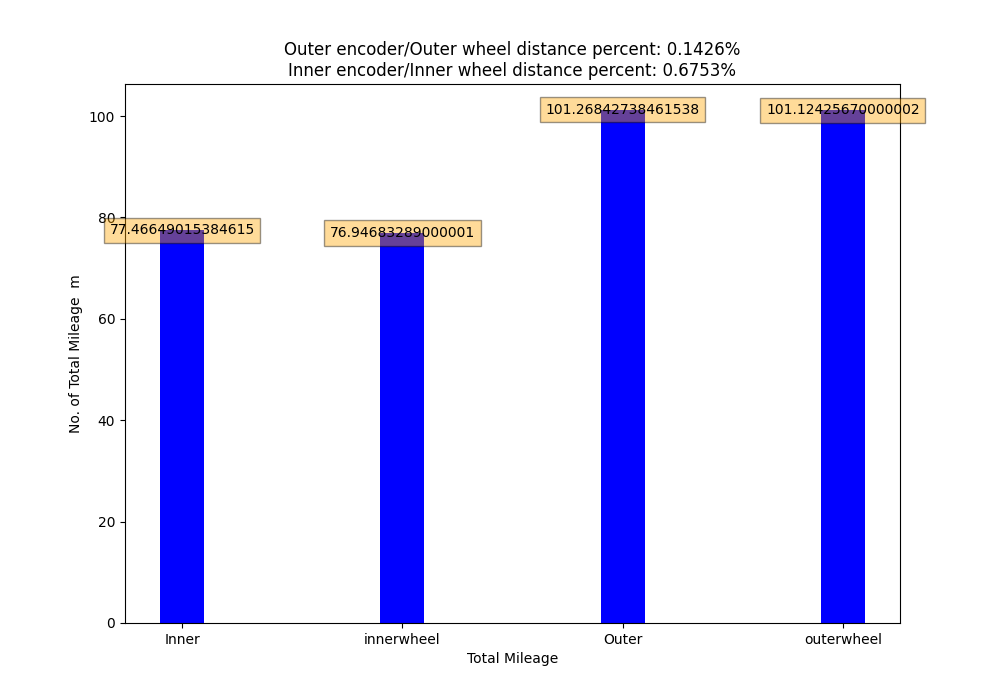
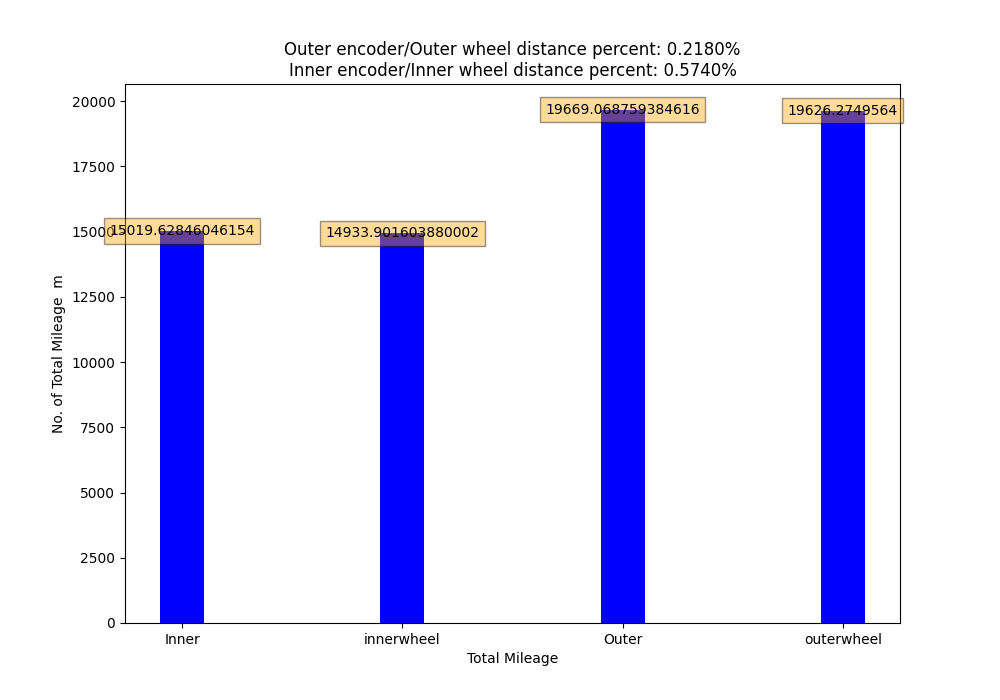
Add files via upload

diff --git a/mainwindow.cpp b/mainwindow.cpp
@@ -41,7 +41,7 @@ MainWindow::MainWindow(QWidget *parent)
     connect(ui->configButton, &QPushButton::clicked, m_settings, &SettingsDialog::show);
     connect(ui->connectButton, &QPushButton::clicked, this, &MainWindow::openSerialPort);
     connect(ui->disconnectButton, &QPushButton::clicked, this, &MainWindow::closeSerialPort);
-    connect(this,SIGNAL(filePath(QString)),this,SLOT(process_python(QString)));
+    connect(this,SIGNAL(filePath(QString,QString)),this,SLOT(process_python(QString,QString)));
     // connect(this,SIGNAL(picpath(QString)),this,SLOT(process_python(QString))); not work
     connect(ui->pushButton,&QPushButton::clicked,m_show,&showDialog::show);
 
@@ -64,11 +64,13 @@ void MainWindow::on_pushButton_2_clicked()
 {
     QString filename=QFileDialog::getOpenFileName(this,"Load CSV file",QDir::homePath(),"CSV file (*.csv)");
     //qDebug()<<filename;
-    emit filePath(filename);
+   QString duration= ui->lineEdit->text(); //get the time duration to process user set.
+    //qDebug()<<duration;
+    emit filePath(filename,duration);
     connect(this,SIGNAL(picpath(QString)),m_show,SLOT(showButton_clicked(QString)));  //transfer the picture path
 }
 
-void MainWindow::process_python(QString p)
+void MainWindow::process_python(QString p,QString time)
 {
     // Setup a process to run the Python script   https://stackoverflow.com/questions/47276571/qprocess-passing-arguments-to-a-python-script
     process1=new QProcess(this);
@@ -77,7 +79,7 @@ void MainWindow::process_python(QString p)
 //    process1->write("/usr/bin/python3.10 ./process_milldata.py");
     QDir dir("/home/yj/qtl/serial-pulse");
     QFileInfo info(dir,"process_milldata.py");
-    process1->start("/usr/bin/python3.10",QStringList()<<info.absoluteFilePath()<<p);
+    process1->start("/usr/bin/python3.10",QStringList()<<info.absoluteFilePath()<<p<<time);
     connect(process1,SIGNAL(readyReadStandardOutput()),this,SLOT(OnReadData()));
 
 //    QPixmap pic("result.png");
@@ -512,3 +514,8 @@ void MainWindow::writeData(){
 
 
 
+
+void MainWindow::on_lineEdit_editingFinished()
+{
+
+}

diff --git a/process_milldata.py b/process_milldata.py
@@ -2,15 +2,42 @@ import pandas as pd
 import matplotlib.pyplot as plt
 import sys
 import os
+from datetime import datetime
+import time
 
 path = sys.argv[1]
+duration = float(sys.argv[2])
 
-firstIndex = 10
-steps = 1000  # 14400 - two hours
-data = pd.read_csv(path)
-inner = data.inner[firstIndex + steps] - data.inner[firstIndex]  # 14400
-moto = data.moto[firstIndex + steps] - data.moto[firstIndex]
-outer = data.outer[firstIndex + steps] - data.outer[firstIndex]
+firstIndex = 2
+# steps = 18500  # 14400 - two hours
+# data = pd.read_csv(path)
+with open(path) as f:
+    data = pd.read_csv(f)
+    time_start1 = datetime.strptime(data.date[firstIndex], "%Y.%m.%d %H:%M:%S")
+    # Use time.mktime to convert datetime to timestamp    "2022.07.22 13:19:25"
+    timestamp_start1 = time.mktime(time_start1.timetuple())
+    timestamp_end1 = timestamp_start1 + duration * 3600
+    datetime_end1 = datetime.fromtimestamp(timestamp_end1).strftime("%Y.%m.%d %H:%M:%S")
+    steps = 0
+    # arr = data.date
+    # searchValue = datetime_end1
+    # index1 = arr.index(searchValue)
+    while steps < len(data['date']):
+        if data.date[steps] == datetime_end1:
+            # print(index)
+            break
+        steps += 1
+
+try:
+    inner = data.inner[firstIndex + steps] - data.inner[firstIndex]  # 14400
+    moto = data.moto[firstIndex + steps] - data.moto[firstIndex]
+    # inner7 = data.inner7[firstIndex + steps] - data.inner7[firstIndex]
+    outer = data.outer[firstIndex + steps] - data.outer[firstIndex]
+except Exception:
+    inner = data.inner[len(data.inner) - 2] - data.inner[firstIndex]
+    # inner7 = data.inner7[len(data.inner)-1] - data.inner7[firstIndex]
+    moto = data.moto[len(data.inner) - 2] - data.moto[firstIndex]
+    outer = data.outer[len(data.inner) - 2] - data.outer[firstIndex]
 
 
 # inner = 258870-14385

diff --git a/mainwindow.h b/mainwindow.h
@@ -50,14 +50,16 @@ private slots:
 
     void on_startButton_clicked();
 
-    void process_python(QString);
+    void process_python(QString,QString);
 
 
     void on_pushButton_2_clicked();
 
+    void on_lineEdit_editingFinished();
+
 signals:
 //    void sendDataChart(int encoderround,int motoround,int biground);
-    void filePath(const QString);
+    void filePath(const QString,const QString);
     void picpath(const QString);
 private:
     void showStatusMessage(const QString &message);
